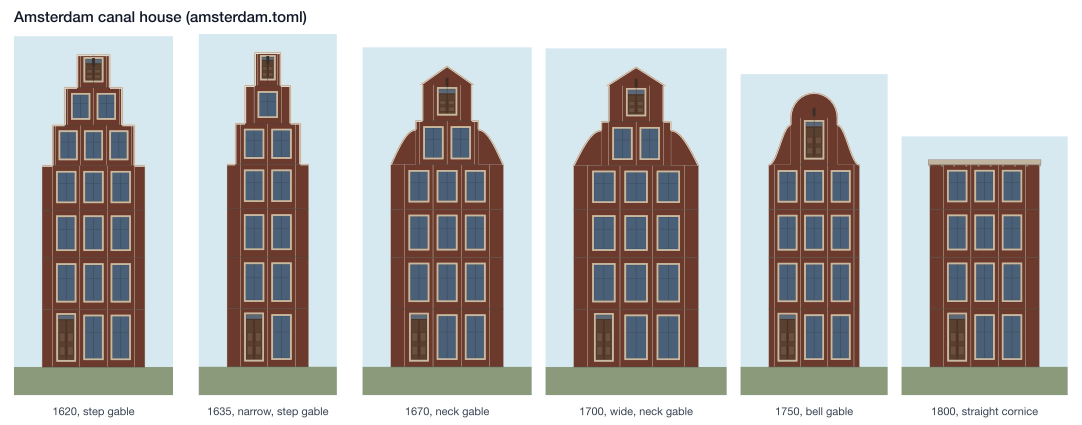
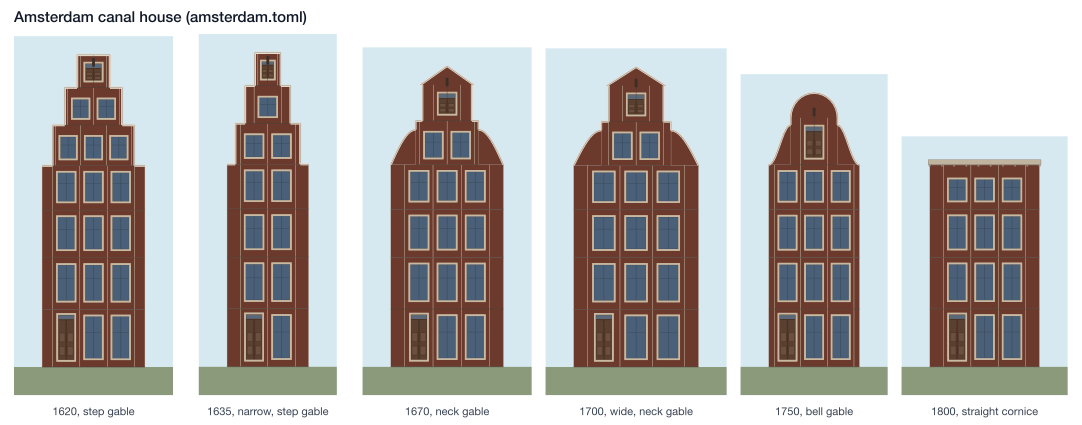
Clear top windows from the cornice; give the Victorians varied layouts
SoHo and Amsterdam: a top floor under a cornice now stops its windows
short of the cornice's frieze (SoHo: 0.65 of the projection plus 0.15 m;
Amsterdam: 0.5 m under a straight cornice, 0.3 m in a gable tier, and the
hoist hatch likewise), so the windows no longer run into it.

San Francisco Victorian: the builder (the seed) and the lot now choose the
layout -- bay on the left or the right, two bays either side of a central
entry on a lot of 8.4 m or more, a side yard behind a fence beside the
entry, and a second chamber floor -- and the stoop, turret and gable follow
the layout. The README strip shows 20, 25 and 30 ft lots.

diff --git a/dev/harness/readme_strips.py b/dev/harness/readme_strips.py
@@ -132,12 +132,12 @@ def strips():
             ("25 m, grand", generate_venice(PalazzoSite(25.0, 1450, K.GRAND))[0]),
         ]),
         "victorian": ("San Francisco Victorian (victorian.toml)", [
-            ("Italianate, 1872", generate_victorian(VictorianSite(1872, K.ORDINARY, 0))[0]),
-            ("Italianate, 1878", generate_victorian(VictorianSite(1878, K.COMFORTABLE, 1))[0]),
-            ("Stick, 1883", generate_victorian(VictorianSite(1883, K.ORDINARY, 2))[0]),
-            ("Stick, 1886", generate_victorian(VictorianSite(1886, K.COMFORTABLE, 3))[0]),
-            ("Queen Anne, 1892", generate_victorian(VictorianSite(1892, K.ORDINARY, 0))[0]),
-            ("Queen Anne, turret, 1895", generate_victorian(VictorianSite(1895, K.GRAND, 1))[0]),
+            ("Italianate, 1872, 25 ft", generate_victorian(VictorianSite(1872, K.ORDINARY, 0))[0]),
+            ("Italianate, 1878, 20 ft, mirrored", generate_victorian(VictorianSite(1878, K.MODEST, 1, 6.1))[0]),
+            ("Stick, 1883, double bay, 30 ft", generate_victorian(VictorianSite(1883, K.COMFORTABLE, 2, 9.1))[0]),
+            ("Stick, 1886, side yard", generate_victorian(VictorianSite(1886, K.ORDINARY, 3, 8.2))[0]),
+            ("Queen Anne, 1892, extra floor", generate_victorian(VictorianSite(1892, K.ORDINARY, 5))[0]),
+            ("Queen Anne, 1895, turret", generate_victorian(VictorianSite(1895, K.GRAND, 1))[0]),
         ]),
     }
 
